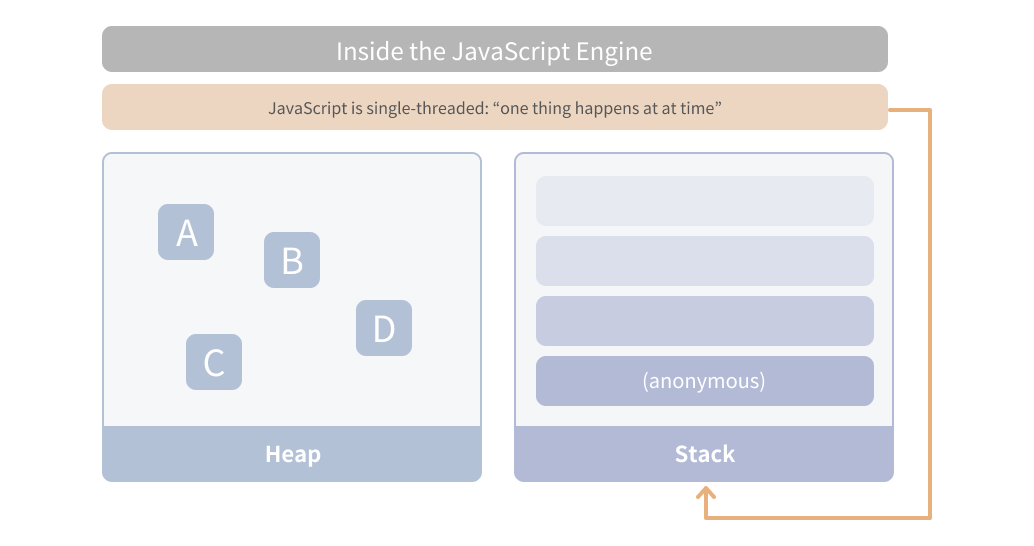
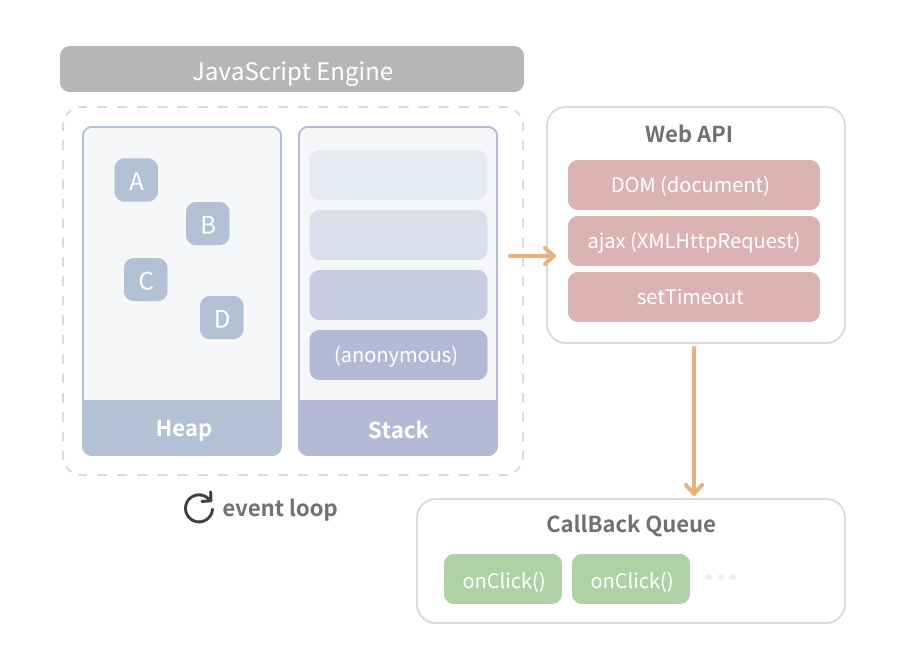
비동기 개념 추가

diff --git a/JavaScript/basic/JavaScriptEngine.md b/JavaScript/basic/JavaScriptEngine.md
@@ -1,55 +1,66 @@
-# JavaScript 엔진
+# JavaScript 엔진과 event loop
 
-### 자바스크립트 엔진이란?
+## 자바스크립트 엔진
 
 자바스크립트 코드를 실행하는 프로그램 혹은 인터프리터
-<hr>
 
-### 자바스크립트 엔진 코드 해석 순서
+<br>
+
+## 자바스크립트 엔진 코드 해석 순서
 
 ![Untitled](../../assets/JavaScript/JavaScript_engine_order.png)
 
 1. 브라우저가 HTML 파일을 읽어 스크립트를 감지하여 실행한다.
 2. 인터프리터가 스크립트를 로드하고 읽어들여서 가상 머신이 이해하기 쉽게 만든 바이트 코드로 변환한다.
-  - 인터프리터는 한줄 한줄 해석해서 바이트 코드를 만든다.
-  - 때문에 가장 빠른 방식은 아니다.
+   인터프리터는 한줄 한줄 해석해서 바이트 코드를 만든다. 때문에 가장 빠른 방식은 아니다.
 3. 인터프리터에서 전달받은 바이트 코드를 머신코드(최적화 코드)로 컴파일링 하여 컴퓨터로 전달한다.
-  - 인터프리터에서 스크립트를 실행할 때 함께 작업이 이루어진다.
-  - 스크립트를 실행할 수 있는 가장 빠른 방법이다.
-<hr>
-
-### 자바스크립트 엔진 특징
-
-- 브라우저별로 스크립트를 실행하는 엔진이 다르다.
-  - chrome은 v8
-
-    [JavaScript V8 Engine Explained | HackerNoon](https://hackernoon.com/javascript-v8-engine-explained-3f940148d4ef)
-
-  - Firefox는 Spider Monkey
-
-    [SpiderMonkey — Firefox Source Docs  documentation](https://firefox-source-docs.mozilla.org/js/index.html)
-
-- 자바스크립트 엔진은 실행 및 컴파일 시간을 단축할 수 있는 최적화 기술을 적용한다.
-  - 이전 실행과 현재 실행 시 달라진 부부닝 없는 코드의 경우 재컴파일링을 거치지 않고 컴파일 된 코드를 다시 사용한다.
-  - 이때 재컴파일될 필요가 없어서 코드를 그대로 사용하므로 빠른 방법으로 실행할 수 있다.
-  - 하지만 코드 변경으로 인터프리터를 거치게 되면 컴파일러 절차도 필요하다.
-- 브라우저 API가 빌트인 되어있다.
-<hr>
-
-### 자바스크립트 코드 실행 원리
-
-자바스크립트 엔진에서 메모리와 실행단계에 대한 관리가 이루어진다.
-
-![Untitled](../../assets/JavaScript/code_execution.png)
-
->💡힙<br>장기 메모리를 뜻하며 시스템 메모리 데이터를 저장한다.
-
->💡스택<br>단기 메모리와 관련된 작업을 수행하며 프로그램의 흐름을 관리한다.
-주로 현재 실행되고 있는 컨텍스트를 관리하는 역할을 담당한다.
+   인터프리터에서 스크립트를 실행할 때 함께 작업이 이루어진다. 스크립트를 실행할 수 있는 가장 빠른 방법
 
 <br>
 
-예시)
+## 자바스크립트 엔진 특징
+
+- 브라우저별로 스크립트를 실행하는 엔진이 다르다.
+
+  chrome의 v8 https://hackernoon.com/javascript-v8-engine-explained-3f940148d4ef
+
+  Firefox의 Spider Monkey https://firefox-source-docs.mozilla.org/js/index.html
+
+- 자바스크립트 엔진은 실행 및 컴파일 시간을 단축할 수 있는 최적화 기술을 적용한다.
+
+  이전 실행과 현재 실행 시 달라진 부부닝 없는 코드의 경우 재컴파일링을 거치지 않고 컴파일 된 코드를 다시 사용한다. 이때 재컴파일될 필요가 없어서 코드를 그대로 사용하므로 빠른 방법으로 실행할 수 있다. 하지만 코드 변경으로 인터프리터를 거치게 되면 컴파일러 절차도 필요하다.
+
+- 브라우저 API가 빌트인 되어있다.
+
+<br>
+
+## 자바스크립트 코드 실행 원리
+
+![Untitled](../../assets/JavaScript/code_execution.png)
+
+### ✅ **Heap**
+
+메모리가 할당이 되는 곳이며 선언한 변수, 함수가 담겨져 있다.
+
+### ✅ **Call Stack**
+ <img src = "../../assets/JavaScript/call_stack.png" width="800px">
+
+코드가 실행될 때 쌓이는 곳이며 하나의 호출 스택을 사용하기 때문에 자바스크립트의 함수가 실행되는 방식을 ‘Run to Completion’이라고 부른다. 이는 하나의 함수가 실행되면 이 함수가 끝날 때까지는 다른 작업은 끼어들지 못한다.
+
+함수의 호출들은 ‘프레임’스택을 형성한다. 함수가 실행되면 Call Stack에 새로운 프레임이 생기고 처리가 끝나면 없어지는 원리를 가지고 있다.
+
+### ✅ Web APIs
+
+Web APIs는 자바스크립트 엔진이 아닌 브라우저에서 제공하는 API로 비동기인 setTimeout, Promise 등이 있다.
+Call Stack에서 실행된 비동기 함수들은 모두 Web API를 호출한다. 그리고 Web API는 콜백 함수를 CallBack Queue에 넣는다.
+
+### ✅ **Callback Queue**
+
+비동기적으로 실행된 콜백 함수가 보관되는 곳이다. 콜 스택에 가기 위한 ‘대기열’이라고 생각하면 된다. 여기에 있는 콜백 함수들은 콜스택이 비워졌을 때 먼저 대기열에 들어온 순서대로 실행된다.
+
+<br>
+
+### Heap, Call Stack 실행 예시
 
 ```jsx
 function getName() {
@@ -65,12 +76,13 @@ greet();
 ```
 
 1. 위에서 getName()과 greet()과 같이 함수를 정의하면 JavaScript가 이를 등록하고 힙에 저장된다.(힙에 저장하는 이유는 함수가 일반적으로 긴 수명을 가지며 애플리케이션에 대한 작업으로 오래도록 지속되기 때문이다.)
-2. 그 다음 스크립트를 실행하면 스택이 실행된다.<br>
-   <img src = "../../assets/JavaScript/call_stack.png" width="400px">
+2. 그 다음 스크립트를 실행하면 스택이 실행된다.
 3. 스택은 익명 코드(anonymous) 실행에서부터 시작된다. 이는 스크립트 파일 자체다.
 4. greet(), getName(), prompt() 순서대로 스택 맨 위에 푸쉬되어 실행한다.
 
    (스택에서는 맨 위에 있는 항목이 항상 현재 실행 중인 항목이 된다.)
+
+   ![Untitled](../../assets/JavaScript/web_call_stack.png)
 
 5. prompt()의 값을 입력하거나 취소를 누르는 등 실행이 종료되면 스택에서 방출(삭제)된다.
 
@@ -80,7 +92,30 @@ greet();
 
 6. getName(), gree() 또한 순서대로 값이 반환되어 스택에서 제거된다.
 7. 모든 작업이 완료되면 anonymous 컨텍스트도 제거된다.
-<br></br>
 
-WEB sources에서 본 Call Stack )
-![Untitled](../../assets/JavaScript/web_call_stack.png)
+<br>
+
+### Web API, CallBack Queue 실행 예시
+
+```jsx
+const button = document.querySelector('button');
+function trackUserHandler() {
+	console.log('Clicked!')
+}
+button.addEventListener('click', trackUserHandler);
+
+let result = 0;
+for(let i = 0; i <100000000; i++) {
+	result += 1;
+}
+console.log(result);
+
+// 4999999950000000
+// Clicked!
+```
+
+다음과 같은 코드가 있고 실행 하자마자 버튼을 누른다고 가정했을 때 trackUserHandler 함수의 결과 값보다  result가 먼저 나오는 것을 볼 수 있다.
+
+이는 trackUserHandler과 같이 비동기 함수가 실행되었을 때 스택이 비워져 있을 때까지 기다려서 호출하기 때문에 result의 값을 기다리고 호출한 것이다.
+
+

diff --git a/JavaScript/declaration/Asynchronous.md b/JavaScript/declaration/Asynchronous.md
@@ -1,0 +1,177 @@
+# [비동기] Promise, async, await
+
+## Promise
+
+```jsx
+const promise = new Promise((resolve, reject) => {
+  // 비동기 작업
+	reselve() //객체, 배열, 문자 모든게 올 수 있다.
+	reject()
+});
+
+promise
+	.then(response => {
+		//성공 콜백 함수
+	}, err => {
+		//then 처리 과정에서 오류가 날 경우 두번째 인자는 오류를 처리하는 함수를 적는다
+		//catch를 더 많이 쓴다.
+	})
+	.catch(response => {
+		//실패 콜백 함수
+	})
+	.finally(() => {
+		//무조건 호출하는 함수
+		//인자가 없음
+	})
+```
+
+then은 새로운 promise가 담길 수 있다.
+
+then은 순차적으로 진행되며 중간에 promise가 오는 경우 반환값을 기다리게 된다.
+
+```jsx
+const setTimer = (duration) => {
+  let promise = new Promise((resolve, reject) => {
+    setTimeout(() => {
+      resolve(new Date().getSeconds())
+    },duration)
+  });
+  return promise
+}
+
+setTimer(2000)
+  .then(response => {
+    console.log('시작', response)
+    return setTimer(5000)
+  })
+  .then(response => {
+    console.log('5초 후', response)
+    return setTimer(2000)
+  })
+  .then(response => {
+    console.log('7초 후', response)
+  })
+
+//시작 13
+//5초 후 18
+//7초 후 20
+```
+
+오류를 처리할 수 있다.
+
+```jsx
+promise
+	.then(response => {
+		response = response * 1 //1. 실행
+	})
+	.catch(response => {
+		return '💡' //중간 에러시 처리
+	})
+	.then(response => {
+		return new Promise((resorve, reject) => {
+			resorve(response - 1) 
+		})
+	})
+```
+
+### ✅ Promise.all : 병렬
+
+```jsx
+async function getApple() {
+    await delay(2000);
+    return "🍎";
+}
+
+async function getBanana() {
+	  await delay(1000); //1. 딜레이 후
+    return "🍌"; //2. 리턴 출력
+}
+
+function pickAllFruits() {
+    //3. 모두 응답 후 출력
+    return Promise.all([getApple(), getBanana()]).then((fruits) =>
+        fruits.join("+")
+    );
+}
+
+pickAllFruits().then(console.log); //🍎+🍌
+```
+
+### ✅ Promise.race
+
+```jsx
+...
+function pickOnlyOne() {
+    //빠르게 응답받은 하나만 출력
+    return Promise.race([getApple(), getBanana()]);
+}
+
+pickOnlyOne().then(console.log); //🍌
+```
+
+<br>
+
+## Async / await
+
+함수 앞에 async를 붙이면 함수  내부에서 일어나는 일이 보이지 않게 바뀌며 반드시 promise를 반환한다.
+
+```jsx
+//async를 사용한 함수
+async function f() {
+  return 1;
+}
+
+f().then(alert); // 1
+
+//동일한 결과의 promise
+async function f() {
+  return Promise.resolve(1);
+}
+
+f().then(alert); // 1
+```
+
+await 은 반드시 async 안에서만 사용할 수 있다.
+
+자바스크립트는 await를 만나면 promise가 처리될 때까지 기다린다.
+
+기다리는 동안에 엔진은 다른 일을 처리할 수 있기 때문에 CPU 리소스가 낭비되지 않는다.
+
+```jsx
+const setTimer = (duration) => {
+    let promise = new Promise((resolve, reject) => {
+        setTimeout(() => {
+            resolve(new Date().getSeconds())
+        },duration)
+    });
+    return promise
+}
+
+async function getSecound() {
+    const a = await setTimer(2000);
+    const b = await setTimer(5000);
+    console.log(a,b)
+}
+console.log(new Date().getSeconds()); //19
+getSecound(); //21, 26
+```
+
+async 내에서 await을 만나면 실행이 끝날 때까지 기다리게 된다
+
+따라서 위와 같이 2초 뒤에 21초가 반환되고 5초 뒤에 26초가 반환되며 a와 b의 값이 모두 있으므로 출력 후 함수가 종료된다.
+
+
+
+### ✅ try catch 오류 처리
+
+```jsx
+async function getUser() {
+	  let user; 
+	  
+	  try {
+	    user = await getUserData();
+	  } catch {
+	    console.log('error');
+	  }
+}
+```
